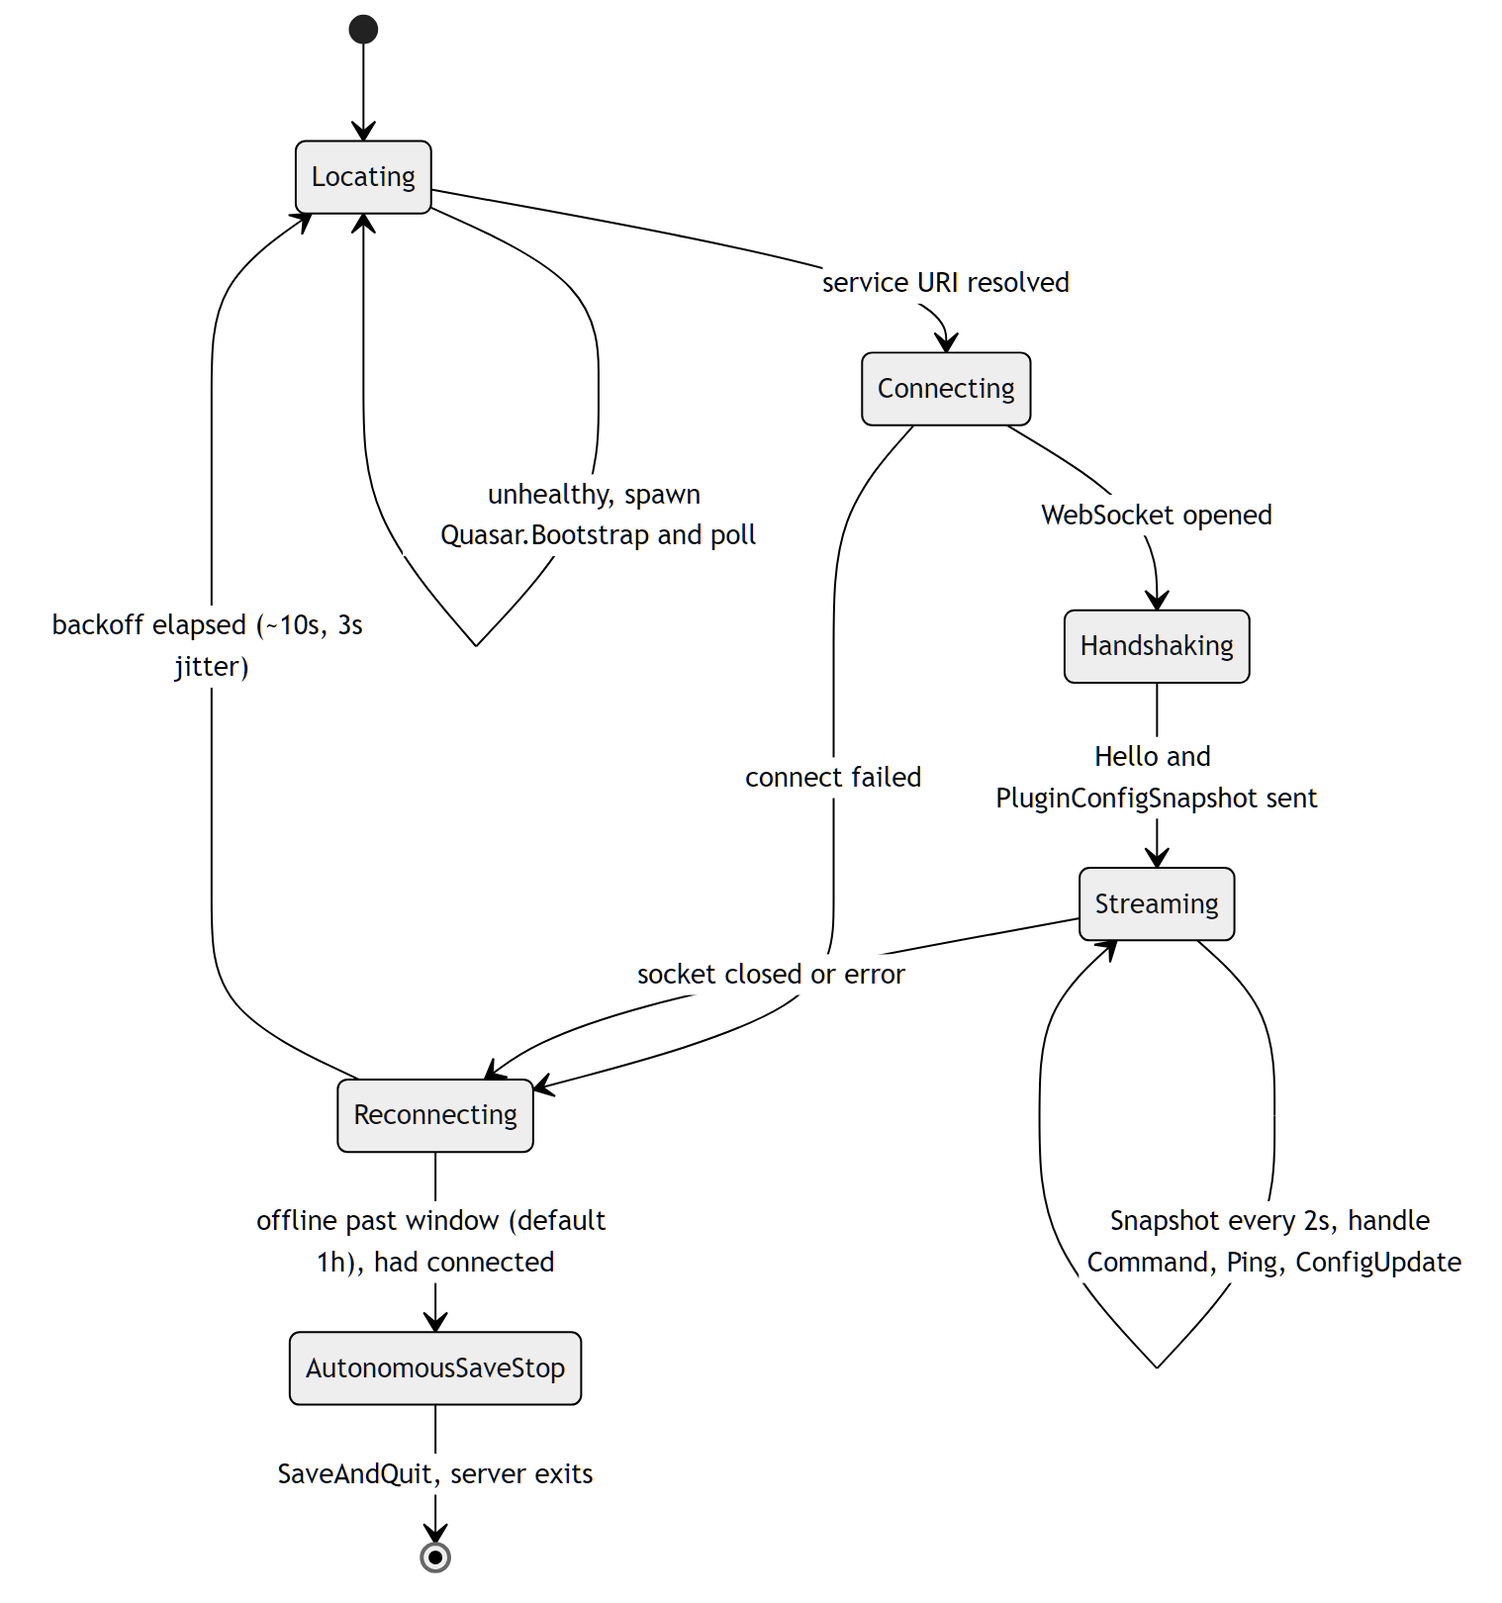
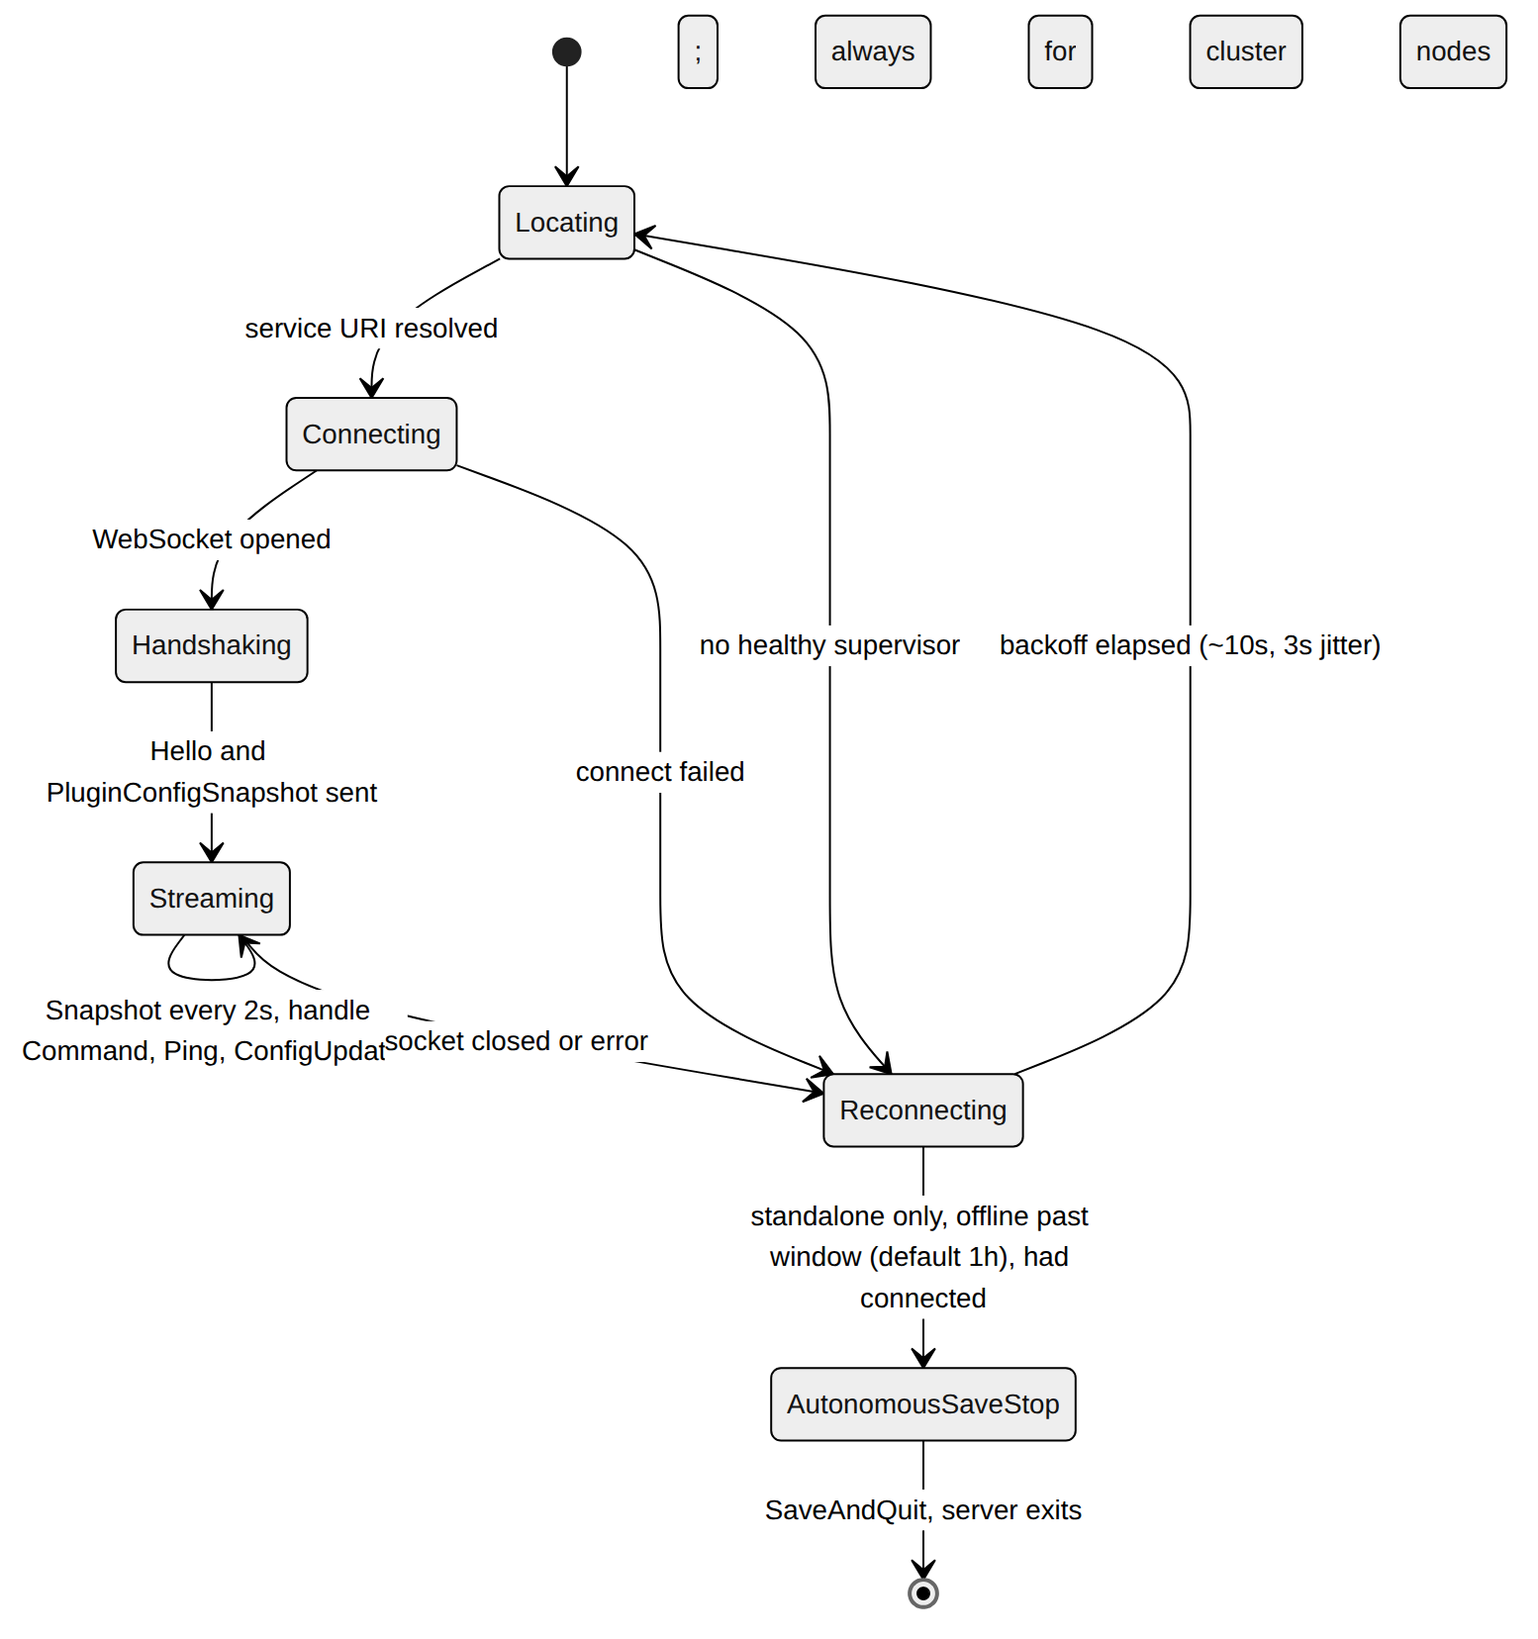
feat(agent): add safe cluster mode
Cluster nodes keep running through Quasar outages and reject agent-local lifecycle commands because the Gateway and host executor own lifecycle.

diff --git a/Quasar.Agent/AgentOptions.cs b/Quasar.Agent/AgentOptions.cs
@@ -11,11 +11,25 @@ namespace Quasar.Agent
     public sealed class AgentOptions
     {
         /// <summary>
+        /// True when the stock-DS cluster runtime is active. This intentionally
+        /// uses the same opt-in environment variable as ClusterRuntime so the
+        /// agent cannot disagree about who owns process lifecycle.
+        /// </summary>
+        public bool ClusterMode { get; set; }
+
+        public string ClusterId { get; set; } = string.Empty;
+
+        public string ClusterNodeId { get; set; } = string.Empty;
+
+        public string ClusterNodeRole { get; set; } = string.Empty;
+
+        /// <summary>
         /// How long, in seconds, to keep the server running after losing contact
         /// with Quasar before saving the world and stopping it. Zero or negative
         /// means stop promptly once Quasar is gone. The self-stop only arms after
         /// the agent has successfully connected to Quasar at least once, so a
-        /// server that never reached Quasar is never auto-stopped.
+        /// server that never reached Quasar is never auto-stopped. Cluster nodes
+        /// ignore this setting and reconnect indefinitely.
         /// </summary>
         public int OfflineShutdownSeconds { get; set; } = 3600;
 
@@ -36,6 +50,11 @@ namespace Quasar.Agent
         {
             var options = new AgentOptions
             {
+                ClusterMode = !string.IsNullOrWhiteSpace(
+                    Environment.GetEnvironmentVariable("SE_CLUSTER_GATEWAY_REGISTRY")),
+                ClusterId = ReadString("SE_CLUSTER_ID"),
+                ClusterNodeId = ReadString("SE_CLUSTER_NODE_ID"),
+                ClusterNodeRole = ReadString("SE_CLUSTER_NODE_ROLE"),
                 // Zero/negative is meaningful here (stop promptly), so it is kept as-is.
                 OfflineShutdownSeconds = ReadInt("QUASAR_AGENT_OFFLINE_SHUTDOWN_SECONDS", 3600),
                 ReconnectIntervalSeconds = ReadInt("QUASAR_AGENT_RECONNECT_INTERVAL_SECONDS", 10),
@@ -51,6 +70,23 @@ namespace Quasar.Agent
 
             return options;
         }
+
+        internal bool ShouldSelfStop(DateTime disconnectedSinceUtc, DateTime nowUtc)
+        {
+            if (ClusterMode)
+                return false;
+
+            return OfflineShutdownSeconds <= 0 ||
+                   nowUtc - disconnectedSinceUtc >= TimeSpan.FromSeconds(OfflineShutdownSeconds);
+        }
+
+        internal bool AllowsCommand(Magnetar.Protocol.Transport.ServerCommandType command) =>
+            !ClusterMode ||
+            (command != Magnetar.Protocol.Transport.ServerCommandType.SaveWorld &&
+             command != Magnetar.Protocol.Transport.ServerCommandType.StopServer);
+
+        private static string ReadString(string name) =>
+            (Environment.GetEnvironmentVariable(name) ?? string.Empty).Trim();
 
         private static int ReadInt(string name, int fallback)
         {

diff --git a/Quasar.Agent/AdminPlugin.cs b/Quasar.Agent/AdminPlugin.cs
@@ -30,17 +30,20 @@ namespace Quasar.Agent
         private bool _adminStopReported;
         private bool _adminRestartRequested;
         private bool _adminRestartReported;
+        private bool _clusterMode;
         private DateTime _lastDeathSubscriptionRefreshUtc = DateTime.MinValue;
 
         public void Init(object gameServer)
         {
             var options = AgentOptions.FromEnvironment();
+            _clusterMode = options.ClusterMode;
             LogStartupVersions();
             OfflineModeNetworkGuard.Apply();
             AgentProfiler.Configure(options);
             AgentProfilerPatches.Apply(options);
-            ServerCommands.Register(typeof(AdminPlugin).Assembly, typeof(StopCommand), typeof(RestartCommand), typeof(QuitCommand));
-            _bridge = new GameBridge(gameServer);
+            if (!_clusterMode)
+                ServerCommands.Register(typeof(AdminPlugin).Assembly, typeof(StopCommand), typeof(RestartCommand), typeof(QuitCommand));
+            _bridge = new GameBridge(gameServer, options);
 
             // Start capturing plugin log lines before the connection loop so any
             // emitted during startup are buffered and shipped once connected.
@@ -48,24 +51,29 @@ namespace Quasar.Agent
             _outbox.Start();
 
             _connection = new AgentConnection(_bridge, new WebServiceLocator(), options, _outbox);
-            StopCommand.AdminStopRequested = ReportAdminStop;
-            QuitCommand.AdminStopRequested = ReportAdminStop;
-            RestartCommand.AdminRestartRequested = ReportAdminRestart;
+            if (!_clusterMode)
+            {
+                StopCommand.AdminStopRequested = ReportAdminStop;
+                QuitCommand.AdminStopRequested = ReportAdminStop;
+                RestartCommand.AdminRestartRequested = ReportAdminRestart;
+                ServerControl.Terminating += OnServerTerminating;
+            }
             _connection.Start();
             MyVisualScriptLogicProvider.PlayerDied += OnPlayerDied;
-            ServerControl.Terminating += OnServerTerminating;
         }
 
         public void Update()
         {
-            RestartCommand.UpdateScheduledRestart();
+            if (!_clusterMode)
+                RestartCommand.UpdateScheduledRestart();
             _bridge?.Update();
             RefreshDeathSubscriptions();
         }
 
         public void Dispose()
         {
-            ServerControl.Terminating -= OnServerTerminating;
+            if (!_clusterMode)
+                ServerControl.Terminating -= OnServerTerminating;
             StopCommand.AdminStopRequested = null;
             QuitCommand.AdminStopRequested = null;
             RestartCommand.AdminRestartRequested = null;

diff --git a/Quasar.Agent/AgentConnection.cs b/Quasar.Agent/AgentConnection.cs
@@ -32,8 +32,8 @@ namespace Quasar.Agent
         private volatile ClientWebSocket _socket;
 
         // True once the agent has connected to Quasar at least once. The
-        // autonomous save-and-stop only arms after a prior connection, so a
-        // standalone server that never reached Quasar is never auto-stopped.
+        // standalone autonomous save-and-stop only arms after a prior connection.
+        // Cluster nodes never auto-stop when Quasar is unavailable.
         private bool _hasConnected;
 
         // When the agent first noticed it had lost Quasar, used to measure how
@@ -161,9 +161,9 @@ namespace Quasar.Agent
         /// Once the agent has been connected at least once, it counts how long
         /// Quasar has been unreachable; when that exceeds the configured offline
         /// window (or that window is zero/negative, meaning "stop promptly") it
-        /// saves the world and stops the server autonomously — no command from
-        /// Quasar required, so it also handles a crash, power loss or network
-        /// partition. Otherwise it waits a jittered interval before retrying.
+        /// saves the world and stops a standalone server autonomously — no command
+        /// from Quasar required. Cluster nodes always keep running and reconnecting;
+        /// their process lifecycle belongs to the Gateway and host executor.
         /// Returns false when the loop should stop (self-stop triggered or the
         /// agent is shutting down), true to keep reconnecting.
         /// </summary>
@@ -176,7 +176,7 @@ namespace Quasar.Agent
             if (_disconnectedSinceUtc == null)
                 _disconnectedSinceUtc = now;
 
-            if (_hasConnected && ShouldSelfStop(now))
+            if (_hasConnected && _options.ShouldSelfStop(_disconnectedSinceUtc.Value, now))
             {
                 var offline = now - _disconnectedSinceUtc.Value;
                 Log($"Quasar has been unreachable for {offline.TotalSeconds:F0} second(s); saving the world and stopping the server.");
@@ -202,17 +202,6 @@ namespace Quasar.Agent
             }
 
             return true;
-        }
-
-        private bool ShouldSelfStop(DateTime now)
-        {
-            // Zero/negative means stop as soon as Quasar is gone (crash-safe
-            // equivalent of an immediate shutdown), but still only after a prior
-            // connection, which the caller has already checked.
-            if (_options.OfflineShutdownSeconds <= 0)
-                return true;
-
-            return now - _disconnectedSinceUtc.Value >= TimeSpan.FromSeconds(_options.OfflineShutdownSeconds);
         }
 
         private TimeSpan NextReconnectDelay()

diff --git a/Quasar.Agent/GameBridge.cs b/Quasar.Agent/GameBridge.cs
@@ -60,6 +60,7 @@ namespace Quasar.Agent
         private readonly string _hostId;
         private readonly string _uniqueName;
         private readonly string _pluginVersion;
+        private readonly AgentOptions _options;
         private readonly ConcurrentQueue<DeathEventSnapshot> _deathQueue = new ConcurrentQueue<DeathEventSnapshot>();
         private readonly object _saveSync = new object();
         private string _worldSavePath = string.Empty;
@@ -84,8 +85,9 @@ namespace Quasar.Agent
         /// </summary>
         public bool QuasarRequestedStop => _quasarRequestedStop;
 
-        public GameBridge(object gameServer)
+        public GameBridge(object gameServer, AgentOptions options)
         {
+            _options = options ?? throw new ArgumentNullException(nameof(options));
             _hostId = (Environment.GetEnvironmentVariable("MAGNETAR_HOST_ID") ?? _hostName)
                 .Trim()
                 .ToLowerInvariant();
@@ -140,6 +142,10 @@ namespace Quasar.Agent
         {
             if (command == null)
                 throw new ArgumentNullException(nameof(command));
+
+            if (!_options.AllowsCommand(command.CommandType))
+                return Task.FromResult(CreateResult(command, false,
+                    "Cluster nodes reject agent-local save and stop commands; use the Gateway cluster API."));
 
             if (command.CommandType == ServerCommandType.PluginRequest)
                 return ExecuteCompanionPluginRequestAsync(command, cancellationToken);
@@ -255,6 +261,10 @@ namespace Quasar.Agent
                 ServerId = serverId,
                 ServerName = serverName,
                 WorldName = worldName,
+                ClusterMode = _options.ClusterMode,
+                ClusterId = _options.ClusterId,
+                ClusterNodeId = _options.ClusterNodeId,
+                ClusterNodeRole = _options.ClusterNodeRole,
                 PluginId = "quasar-agent",
                 PluginVersion = _pluginVersion,
                 ProcessId = _processId,
@@ -278,6 +288,10 @@ namespace Quasar.Agent
                 ServerId = hello.ServerId,
                 ServerName = hello.ServerName,
                 WorldName = hello.WorldName,
+                ClusterMode = hello.ClusterMode,
+                ClusterId = hello.ClusterId,
+                ClusterNodeId = hello.ClusterNodeId,
+                ClusterNodeRole = hello.ClusterNodeRole,
                 IsRunning = session != null && session.Ready,
                 CapturedAtUtc = DateTimeOffset.UtcNow,
                 Metrics = BuildMetrics(session),

diff --git a/Quasar.Tests/AgentClusterModeTests.cs b/Quasar.Tests/AgentClusterModeTests.cs
@@ -1,0 +1,36 @@
+using Magnetar.Protocol.Transport;
+using Quasar.Agent;
+using Xunit;
+
+namespace Quasar.Tests;
+
+public sealed class AgentClusterModeTests
+{
+    [Fact]
+    public void ClusterModeNeverSelfStopsWhenQuasarIsOffline()
+    {
+        var options = new AgentOptions { ClusterMode = true, OfflineShutdownSeconds = 0 };
+        DateTime disconnected = DateTime.UtcNow.AddDays(-1);
+
+        Assert.False(options.ShouldSelfStop(disconnected, DateTime.UtcNow));
+    }
+
+    [Fact]
+    public void StandaloneModeKeepsConfiguredOfflineShutdown()
+    {
+        var options = new AgentOptions { OfflineShutdownSeconds = 60 };
+        DateTime disconnected = DateTime.UtcNow;
+
+        Assert.False(options.ShouldSelfStop(disconnected, disconnected.AddSeconds(59)));
+        Assert.True(options.ShouldSelfStop(disconnected, disconnected.AddSeconds(60)));
+    }
+
+    [Theory]
+    [InlineData(ServerCommandType.SaveWorld)]
+    [InlineData(ServerCommandType.StopServer)]
+    public void ClusterModeRejectsAgentLocalLifecycleCommands(ServerCommandType command)
+    {
+        Assert.False(new AgentOptions { ClusterMode = true }.AllowsCommand(command));
+        Assert.True(new AgentOptions().AllowsCommand(command));
+    }
+}

diff --git a/Magnetar.Protocol/Model/AgentSnapshot.cs b/Magnetar.Protocol/Model/AgentSnapshot.cs
@@ -19,6 +19,14 @@ public class AgentSnapshot
 
     public string WorldName { get; set; } = string.Empty;
 
+    public bool ClusterMode { get; set; }
+
+    public string ClusterId { get; set; } = string.Empty;
+
+    public string ClusterNodeId { get; set; } = string.Empty;
+
+    public string ClusterNodeRole { get; set; } = string.Empty;
+
     public bool IsRunning { get; set; }
 
     public DateTimeOffset CapturedAtUtc { get; set; } = DateTimeOffset.UtcNow;

diff --git a/Magnetar.Protocol/Model/AgentHello.cs b/Magnetar.Protocol/Model/AgentHello.cs
@@ -18,6 +18,14 @@ public class AgentHello
 
     public string WorldName { get; set; } = string.Empty;
 
+    public bool ClusterMode { get; set; }
+
+    public string ClusterId { get; set; } = string.Empty;
+
+    public string ClusterNodeId { get; set; } = string.Empty;
+
+    public string ClusterNodeRole { get; set; } = string.Empty;
+
     public string PluginId { get; set; } = string.Empty;
 
     public string PluginVersion { get; set; } = string.Empty;

diff --git a/Docs/StateMachines/AgentConnection.md b/Docs/StateMachines/AgentConnection.md
@@ -27,8 +27,8 @@ stateDiagram-v2
     Handshaking --> Streaming: Hello and PluginConfigSnapshot sent
     Streaming --> Streaming: Snapshot every 2s, handle Command, Ping, ConfigUpdate
     Streaming --> Reconnecting: socket closed or error
-    Reconnecting --> Locating: backoff elapsed (~10s, 3s jitter)
-    Reconnecting --> AutonomousSaveStop: offline past window (default 1h), had connected
+    Reconnecting --> Locating: backoff elapsed (~10s, 3s jitter); always for cluster nodes
+    Reconnecting --> AutonomousSaveStop: standalone only, offline past window (default 1h), had connected
     AutonomousSaveStop --> [*]: SaveAndQuit, server exits
 ```
 
@@ -38,12 +38,18 @@ stateDiagram-v2
 | --- | --- |
 | `Locating` | `WebServiceLocator` probes the explicit supervisor URL from `QUASAR_BASE_URL` (plus compatible public-base-url variables) and the discovery manifest, accepting the first `/api/health` response that succeeds. If no healthy instance is found, the agent does not start Quasar or Bootstrap; it waits for the reconnect loop. |
 | `Connecting` | Opens `ws(s)://…/ws/agent` (WebSocket keep-alive 20s). |
-| `Handshaking` | Sends the `Hello` identity message and forces an initial `PluginConfigSnapshot`. |
+| `Handshaking` | Sends the `Hello` identity message and forces an initial `PluginConfigSnapshot`. Cluster hello/snapshot payloads include cluster, node, and role tags from the executor environment. |
 | `Streaming` | Sends a `Snapshot` every ~2s, flushes buffered plugin-log batches, and dispatches inbound `Command` (including `PluginRequest` companion dispatch) / `Ping` / `PluginConfigUpdate` messages. |
 | `Reconnecting` | On socket error/close, waits `ReconnectIntervalSeconds` (~10s) ± jitter (~3s) then re-locates. |
-| `AutonomousSaveStop` | If the agent had connected at least once and Quasar stays unreachable past `OfflineShutdownSeconds` (default 3600s), it performs a `SaveAndQuit`. The "had connected" guard prevents auto-stopping a server that never attached. |
+| `AutonomousSaveStop` | Standalone only: if the agent had connected at least once and Quasar stays unreachable past `OfflineShutdownSeconds` (default 3600s), it performs a `SaveAndQuit`. The "had connected" guard prevents auto-stopping a server that never attached. |
 
-An admin-initiated in-game shutdown (not a Quasar-requested stop) sends an
+Cluster mode is active when `SE_CLUSTER_GATEWAY_REGISTRY` is set, matching
+ClusterRuntime's own activation rule. In this mode the agent reconnects indefinitely,
+does not register its standalone `!stop`, `!restart`, or `!quit` commands, and rejects
+save/stop commands arriving through the agent channel. Magnetar's cluster-aware commands
+route lifecycle intent through PluginSdk to the Gateway instead.
+
+On standalone servers, an admin-initiated in-game shutdown (not a Quasar-requested stop) sends an
 `AdminStop` wire message before exit so the supervisor flips the goal to `Off`
 (see [Dedicated Server Lifecycle](DedicatedServerLifecycle.md#goal-state)).
 

diff --git a/Docs/QuasarArchitecture.md b/Docs/QuasarArchitecture.md
@@ -69,6 +69,10 @@ That means `Quasar` is responsible for:
 - executes game-thread actions
 - reconnects when the supervisor is temporarily unreachable
 
+On a cluster node it reports process telemetry tagged with cluster/node/role identity,
+reconnects indefinitely, and does not own save, shutdown, or restart. ClusterRuntime and
+Magnetar route lifecycle intent to the Gateway; `Quasar.Host` owns process execution.
+
 ## Target Workflow
 
 Primary workflow:
@@ -191,7 +195,7 @@ This channel is the main runtime communication path for:
 - snapshots
 - commands
 - command results
-- admin-stop notifications (the agent reports an in-game admin shutdown so Quasar flips goal state to `Off`)
+- standalone admin-stop notifications (the agent reports an in-game admin shutdown so Quasar flips goal state to `Off`)
 - heartbeats / reconnect handling
 
 This is the current control-plane transport and remains the active implementation path.
@@ -213,7 +217,7 @@ Important boundary:
 
 So the intended long-term split is:
 
-- control plane: `Quasar.Agent <-> Quasar`
+- process telemetry/control: `Quasar.Agent <-> Quasar`
 - local same-host bulk state plane: `DS <-> DS`, with Quasar coordinating setup
 
 Recommended abstraction boundary:

diff --git a/Docs/Configuration.md b/Docs/Configuration.md
@@ -230,6 +230,20 @@ automatically; move them manually if they should appear in the new folder. When
 `QUASAR_BACKUP_DIR` is set, it takes precedence and the Backup page shows the
 active folder as read-only.
 
+## Agent cluster mode
+
+`Quasar.Agent` enters cluster mode when `SE_CLUSTER_GATEWAY_REGISTRY` is non-empty,
+the same activation condition used by ClusterRuntime. The host executor also supplies
+`SE_CLUSTER_ID`, `SE_CLUSTER_NODE_ID`, and `SE_CLUSTER_NODE_ROLE`; the agent includes
+those values in hello and snapshot telemetry.
+
+Cluster mode changes lifecycle safety, not the telemetry transport: the agent keeps
+reconnecting when Quasar is unavailable, never performs the standalone offline
+save-and-stop policy, does not register its standalone lifecycle chat commands, and
+rejects save/stop commands received over the agent WebSocket. Cluster lifecycle
+requests must use Magnetar's PluginSdk route to the Gateway, while OS/executor process
+termination remains outside the agent.
+
 ## Agent profiler mode
 
 Managed Space Engineers servers receive the profiler mode through
